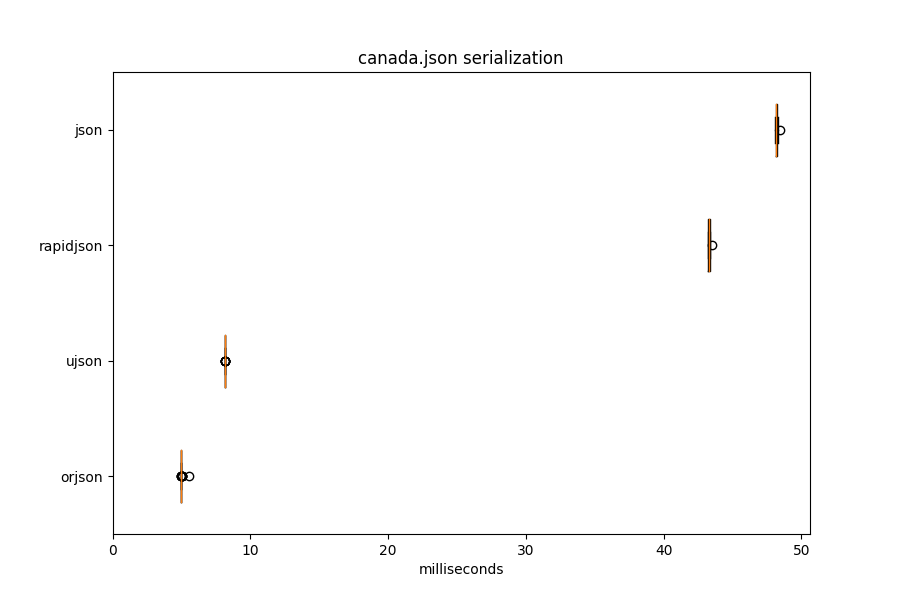
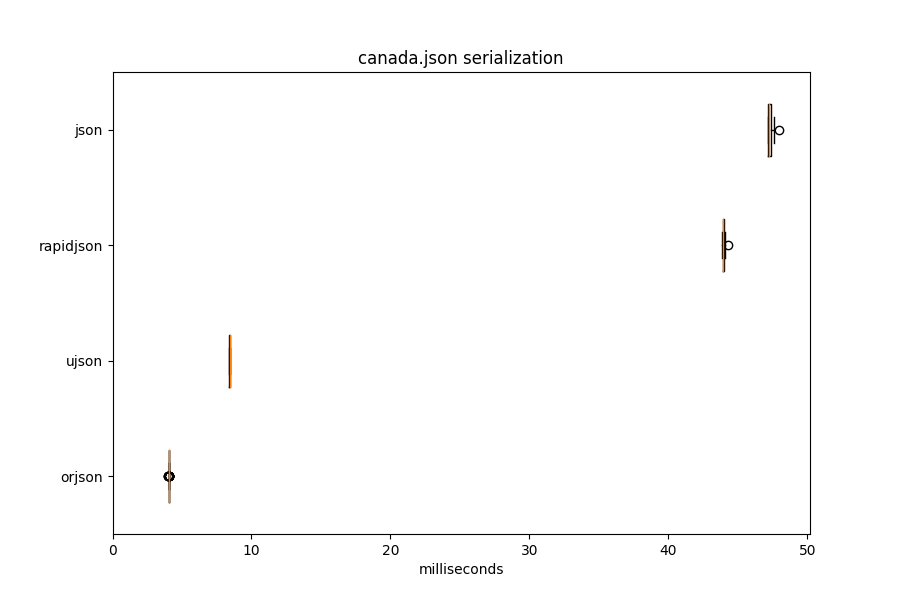
1.3.0

diff --git a/README.md b/README.md
@@ -1,12 +1,13 @@
 # orjson
 
 orjson is a fast JSON library for Python. It benchmarks as the fastest Python
-library for JSON serialization, with 1.6x to 2.6x the performance of the nearest
-other library, and deserialization performance of 0.95x to 1.2x
-the nearest other library.
+library for JSON. Its serialization performance is 2x to 3x the nearest
+other library and 4.5x to 11.5x the standard library. Its deserialization
+performance is 1.05x to 1.2x the nearest other library and 1.2x to 4x
+the standard library.
 
-It supports CPython 3.5, 3.6, and 3.7. It is not intended
-as a drop-in replacement for the standard library's json module.
+It supports CPython 3.5, 3.6, and 3.7. Its API is a subset of the
+API of the standard library's json module.
 
 ## Usage
 
@@ -23,7 +24,6 @@ and Python environment:
 
 ```sh
 git clone --recurse-submodules https://github.com/ijl/orjson.git && cd orjson
-virtualenv .venv && source .venv/bin/activate
 pip install --upgrade pyo3-pack
 pyo3-pack build --release --strip --interpreter python3.7
 ```
@@ -40,13 +40,13 @@ def dumps(obj: Union[str, bytes, dict, list, tuple, int, float, None]) -> bytes:
 `dumps()` serializes Python objects to JSON.
 
 It has no options, does not support hooks for custom objects, and does not
-support subclasses. It supports 64-bit integers and 64-bit floats, which
-is the same as the standard library `json` module.
+support subclasses.
 
 It raises `TypeError` on an unsupported type. This exception message
 describes the invalid object.
 
-It raises `TypeError` on an integer that is too large.
+It raises `TypeError` on an integer that exceeds 64 bits. This is the same
+as the standard library's `json` module.
 
 It raises `TypeError` if a `dict` has a key of a type other than `str`.
 
@@ -107,102 +107,118 @@ roundtrip, jsonchecker, and fixtures files of the
 [nativejson-benchmark](https://github.com/miloyip/nativejson-benchmark)
 repository. It is tested to not crash against the
 [Big List of Naughty Strings](https://github.com/minimaxir/big-list-of-naughty-strings).
-There are integration tests exercising the library's use in web
-servers (uwsgi and gunicorn, using multiprocess/forked workers) and when
+It is tested to not leak memory. It is tested to be correct against
+input from the PyJFuzz JSON fuzzer. There are integration tests
+exercising the library's use in web servers (uwsgi and gunicorn,
+using multiprocess/forked workers) and when
 multithreaded. It also uses some tests from the ultrajson library.
 
 ## Performance
 
-Serialization performance of orjson is better than ultrajson, rapidjson, or
-json. Deserialization performance is better to about the same as ultrajson.
+Serialization and deserialization performance of orjson is better than
+ultrajson, rapidjson, or json. The benchmarks are done on fixtures of real data:
+
+* twitter.json, 631.5KiB, results of a search on Twitter for "一", containing
+CJK strings, dictionaries of strings and arrays of dictionaries, indented.
+
+* github.json, 55.8KiB, a GitHub activity feed, containing dictionaries of
+strings and arrays of dictionaries, not indented.
+
+* citm_catalog.json, 1.7MiB, concert data, containing nested dictionaries of
+strings and arrays of integers, indented.
+
+* canada.json, 2.2MiB, coordinates of the Canadian border in GeoJSON
+format, containing floats and arrays, indented.
 
 ![alt text](doc/twitter_serialization.png "twitter.json serialization")
 ![alt text](doc/twitter_deserialization.png "twitter.json deserialization")
-![alt text](doc/citm_catalog_serialization.png "citm_catalog.json serialization")
-![alt text](doc/citm_catalog_deserialization.png "citm_catalog.json deserialization")
 ![alt text](doc/github_serialization.png "github.json serialization")
 ![alt text](doc/github_deserialization.png "github.json deserialization")
+![alt text](doc/citm_catalog_serialization.png "citm_catalog.json serialization")
+![alt text](doc/citm_catalog_deserialization.png "citm_catalog.json deserialization")
 ![alt text](doc/canada_serialization.png "canada.json serialization")
 ![alt text](doc/canada_deserialization.png "canada.json deserialization")
 
-#### canada.json deserialization
+#### twitter.json serialization
 
-| Library   |   Median (milliseconds) |   Operations per second |   Relative (latency) |
-|-----------|-------------------------|-------------------------|----------------------|
-| orjson    |                    7.59 |                   131.8 |                 1    |
-| ujson     |                    7.26 |                   133.5 |                 0.96 |
-| rapidjson |                   26.72 |                    37.4 |                 3.52 |
-| json      |                   26.78 |                    37.3 |                 3.53 |
-
-#### canada.json serialization
-
-| Library   |   Median (milliseconds) |   Operations per second |   Relative (latency) |
-|-----------|-------------------------|-------------------------|----------------------|
-| orjson    |                    4.99 |                   200.3 |                 1    |
-| ujson     |                    8.16 |                   122.5 |                 1.64 |
-| rapidjson |                   43.27 |                    23.1 |                 8.67 |
-| json      |                   48.15 |                    20.8 |                 9.65 |
-
-#### citm_catalog.json deserialization
-
-| Library   |   Median (milliseconds) |   Operations per second |   Relative (latency) |
-|-----------|-------------------------|-------------------------|----------------------|
-| orjson    |                    5.05 |                   198.2 |                 1    |
-| ujson     |                    6.2  |                   161.2 |                 1.23 |
-| rapidjson |                    6.57 |                   152.2 |                 1.3  |
-| json      |                    6.62 |                   151.1 |                 1.31 |
-
-#### citm_catalog.json serialization
-
-| Library   |   Median (milliseconds) |   Operations per second |   Relative (latency) |
-|-----------|-------------------------|-------------------------|----------------------|
-| orjson    |                    1    |                   997.4 |                 1    |
-| ujson     |                    2.54 |                   394.1 |                 2.53 |
-| rapidjson |                    2.38 |                   419.5 |                 2.38 |
-| json      |                    5.26 |                   190   |                 5.25 |
-
-#### github.json deserialization
-
-| Library   |   Median (milliseconds) |   Operations per second |   Relative (latency) |
-|-----------|-------------------------|-------------------------|----------------------|
-| orjson    |                    0.23 |                  4310.6 |                 1    |
-| ujson     |                    0.23 |                  4414.3 |                 0.98 |
-| rapidjson |                    0.23 |                  4229.4 |                 1    |
-| json      |                    0.23 |                  4176.3 |                 1    |
-
-#### github.json serialization
-
-| Library   |   Median (milliseconds) |   Operations per second |   Relative (latency) |
-|-----------|-------------------------|-------------------------|----------------------|
-| orjson    |                    0.06 |                 16357.9 |                 1    |
-| ujson     |                    0.13 |                  7531.2 |                 2.17 |
-| rapidjson |                    0.16 |                  6362.9 |                 2.57 |
-| json      |                    0.23 |                  4242.5 |                 3.8  |
+| Library   |   Median latency (milliseconds) |   Operations per second |   Relative (latency) |
+|-----------|---------------------------------|-------------------------|----------------------|
+| orjson    |                            0.48 |                  2077.6 |                 1    |
+| ujson     |                            1.48 |                   664.6 |                 3.09 |
+| rapidjson |                            1.59 |                   626.5 |                 3.32 |
+| json      |                            2.24 |                   443.9 |                 4.68 |
 
 #### twitter.json deserialization
 
-| Library   |   Median (milliseconds) |   Operations per second |   Relative (latency) |
-|-----------|-------------------------|-------------------------|----------------------|
-| orjson    |                    2.6  |                   385.5 |                 1    |
-| ujson     |                    2.98 |                   336.5 |                 1.15 |
-| rapidjson |                    2.84 |                   339.1 |                 1.09 |
-| json      |                    2.84 |                   345.9 |                 1.09 |
+| Library   |   Median latency (milliseconds) |   Operations per second |   Relative (latency) |
+|-----------|---------------------------------|-------------------------|----------------------|
+| orjson    |                            2.38 |                   418.8 |                 1    |
+| ujson     |                            2.67 |                   373   |                 1.12 |
+| rapidjson |                            2.78 |                   359.5 |                 1.16 |
+| json      |                            2.77 |                   359.7 |                 1.16 |
 
-#### twitter.json serialization
+#### github.json serialization
 
-| Library   |   Median (milliseconds) |   Operations per second |   Relative (latency) |
-|-----------|-------------------------|-------------------------|----------------------|
-| orjson    |                    0.56 |                  1790   |                 1    |
-| ujson     |                    1.44 |                   693.9 |                 2.58 |
-| rapidjson |                    1.57 |                   636.1 |                 2.82 |
-| json      |                    2.21 |                   452   |                 3.96 |
+| Library   |   Median latency (milliseconds) |   Operations per second |   Relative (latency) |
+|-----------|---------------------------------|-------------------------|----------------------|
+| orjson    |                            0.06 |                 17745   |                 1    |
+| ujson     |                            0.14 |                  7107.1 |                 2.49 |
+| rapidjson |                            0.16 |                  6253.9 |                 2.86 |
+| json      |                            0.25 |                  3972.5 |                 4.49 |
 
-This was measured using orjson 1.2.0 on Python 3.7.1 and Linux. The above can be
-reproduced using the `pybench` and `graph` scripts.
+#### github.json deserialization
+
+| Library   |   Median latency (milliseconds) |   Operations per second |   Relative (latency) |
+|-----------|---------------------------------|-------------------------|----------------------|
+| orjson    |                            0.2  |                  4929.7 |                 1    |
+| ujson     |                            0.22 |                  4605.2 |                 1.08 |
+| rapidjson |                            0.24 |                  4166.5 |                 1.19 |
+| json      |                            0.24 |                  4150.8 |                 1.19 |
+
+#### citm_catalog.json serialization
+
+| Library   |   Median latency (milliseconds) |   Operations per second |   Relative (latency) |
+|-----------|---------------------------------|-------------------------|----------------------|
+| orjson    |                            0.76 |                  1302   |                 1    |
+| ujson     |                            2.58 |                   387.2 |                 3.38 |
+| rapidjson |                            2.37 |                   421.1 |                 3.11 |
+| json      |                            5.41 |                   184.4 |                 7.09 |
+
+#### citm_catalog.json deserialization
+
+| Library   |   Median latency (milliseconds) |   Operations per second |   Relative (latency) |
+|-----------|---------------------------------|-------------------------|----------------------|
+| orjson    |                            4.28 |                   233.1 |                 1    |
+| ujson     |                            5.06 |                   197.2 |                 1.18 |
+| rapidjson |                            5.82 |                   171.7 |                 1.36 |
+| json      |                            5.81 |                   171.8 |                 1.36 |
+
+#### canada.json serialization
+
+| Library   |   Median latency (milliseconds) |   Operations per second |   Relative (latency) |
+|-----------|---------------------------------|-------------------------|----------------------|
+| orjson    |                            4.04 |                   247.7 |                 1    |
+| ujson     |                            8.43 |                   118.6 |                 2.09 |
+| rapidjson |                           43.93 |                    22.7 |                10.88 |
+| json      |                           47.23 |                    21.1 |                11.7  |
+
+#### canada.json deserialization
+
+| Library   |   Median latency (milliseconds) |   Operations per second |   Relative (latency) |
+|-----------|---------------------------------|-------------------------|----------------------|
+| orjson    |                            6.69 |                   147.6 |                 1    |
+| ujson     |                            7.17 |                   139.4 |                 1.07 |
+| rapidjson |                           26.77 |                    37.4 |                 4    |
+| json      |                           26.59 |                    37.6 |                 3.97 |
+
+
+This was measured using orjson 1.3.0 on Python 3.7.2 and Linux.
+
+The results can be reproduced using the `pybench` and `graph` scripts.
 
 ## License
 
 orjson is dual licensed under the Apache 2.0 and MIT licenses. It contains
-code from the hyperjson and ultrajson libraries. It is implemented using
+tests from the hyperjson and ultrajson libraries. It is implemented using
 the [serde_json](https://github.com/serde-rs/json) and
 [pyo3](https://github.com/PyO3/pyo3) libraries.

diff --git a/CHANGELOG.md b/CHANGELOG.md
@@ -1,5 +1,11 @@
 # Changelog
 
+## 1.3.0 - 2019-01-02
+
+### Changed
+
+- Performance improvements of 15-25% on serialization, 10% on deserialization.
+
 ## 1.2.1 - 2018-12-31
 
 ### Fixed
